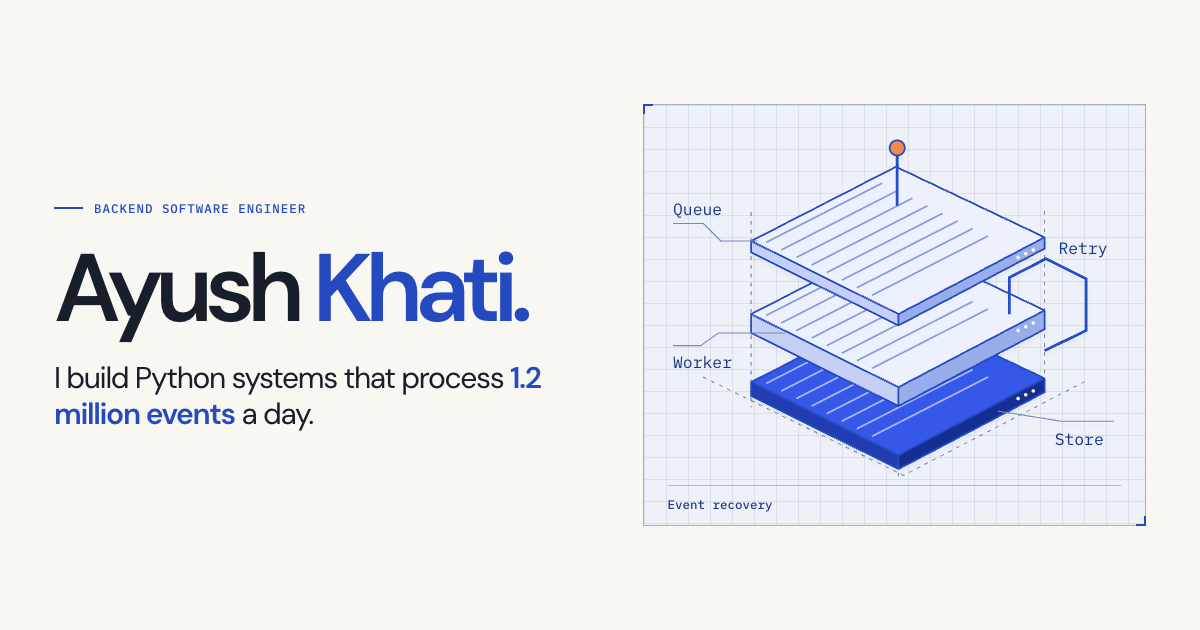
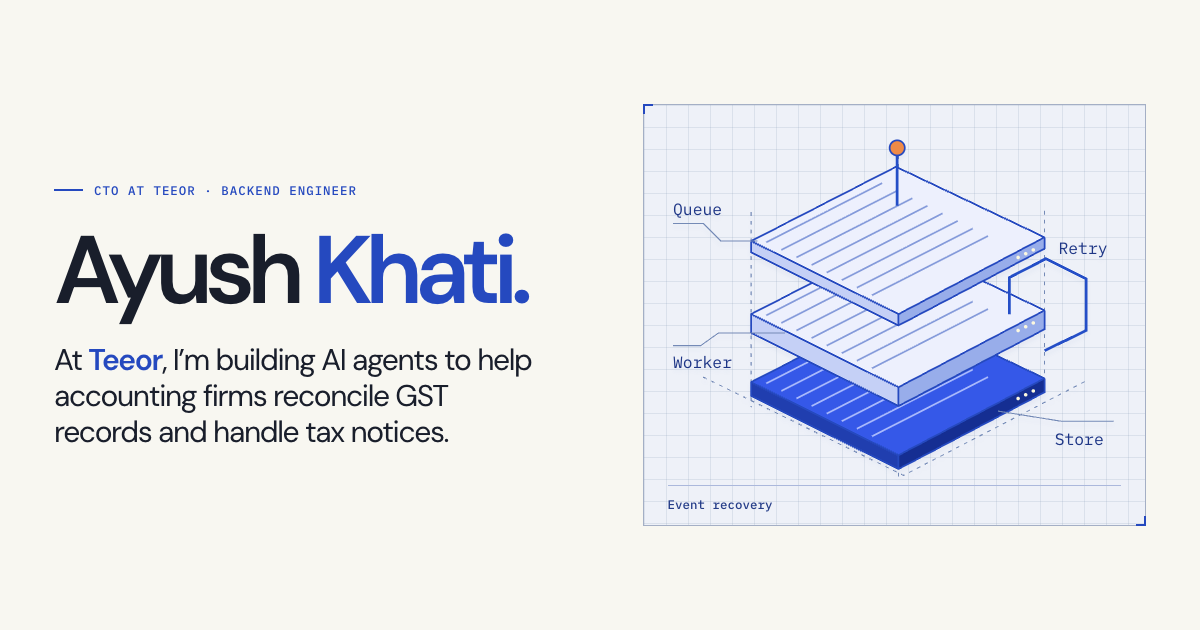
Highlight Ayush’s CTO role at Teeor in the portfolio

Changed region(s): [[0.0308, 0.2714, 0.4625, 0.7238]]

diff --git a/src/components/AboutSection.tsx b/src/components/AboutSection.tsx
@@ -20,7 +20,14 @@ export default function AboutSection() {
         </div></section>
         <section id="experience" className="wrap chapter"><h2>Where I’ve worked<span>.</span></h2>
             <div className="career"><figure><img src={portrait} alt="Ayush Khati" width="605" height="701" loading="lazy"/><figcaption>Ayush Khati · Siliguri, India</figcaption></figure>
-            <ol><li><small>Oct 2025 – present</small><h3>Backend Software Engineer</h3><a href="https://www.udeckservices.com/">Udeck Services</a><p>I own the Evan Merchantile backend, from idempotent ledger writes to observability across 198 endpoints.</p></li>
+            <ol>
+                <li>
+                    <small>Current · Startup leadership</small>
+                    <h3>Chief Technology Officer</h3>
+                    <a href="https://www.teoor.tech/#h-hero">Teeor Technologies</a>
+                    <p>I lead engineering at Teeor. We’re starting with accounting firms in India, building AI agents for GST reconciliation and tax notice workflows.</p>
+                </li>
+                <li><small>Oct 2025 – present</small><h3>Backend Software Engineer</h3><a href="https://www.udeckservices.com/">Udeck Services</a><p>I own the Evan Merchantile backend, from idempotent ledger writes to observability across 198 endpoints. Our pipelines process 1.2 million events a day.</p></li>
                 <li><small>Apr – Oct 2025</small><h3>Backend Engineering Intern</h3><a href="https://www.udeckservices.com/">Udeck Services</a><p>I built B2B checkout and tiered pricing for HamroBazaar and cut request time from 3.96s to 1.15s.</p></li>
                 <li><small>Education</small><h3>Bachelor of Computer Applications</h3><p>Siliguri Institute of Technology · CGPA 8.1/10. Fedora contributor and technical lead for TechFrenzy and NSS.</p></li>
             </ol></div>

diff --git a/index.html b/index.html
@@ -4,17 +4,17 @@
 <head>
     <meta charset="UTF-8" />
     <meta name="viewport" content="width=device-width, initial-scale=1.0" />
-    <title>Ayush Khati | Backend Software Engineer · Engineering Atlas</title>
-    <meta name="description" content="Explore the Python distributed systems Ayush Khati has shipped, from pipelines processing 1.2 million events a day to offline concurrency analysis." />
+    <title>Ayush Khati | CTO at Teeor · Backend Engineer</title>
+    <meta name="description" content="Ayush Khati leads engineering at Teeor, building AI agents for GST reconciliation and tax notices. Explore his backend systems and shipped projects." />
     <meta name="author" content="Ayush Khati" />
 
-    <meta property="og:title" content="Ayush Khati | Backend Software Engineer · Engineering Atlas" />
-    <meta property="og:description" content="An illustrated portfolio of Python event pipelines, real-time streaming, and SQL optimization by Ayush Khati." />
+    <meta property="og:title" content="Ayush Khati | CTO at Teeor · Backend Engineer" />
+    <meta property="og:description" content="Meet Ayush Khati, CTO at Teeor, and explore his work in tax automation, Python distributed systems, and real-time streaming." />
     <meta property="og:type" content="website" />
 
     <meta name="twitter:card" content="summary_large_image" />
     <meta property="og:image" content="https://portfolio-peach-nine-88.vercel.app/atlas-preview.png" />
-    <meta property="og:image:alt" content="Ayush Khati, backend software engineer. Illustrated event recovery pipeline." />
+    <meta property="og:image:alt" content="Ayush Khati, CTO at Teeor and backend engineer. Illustrated event recovery pipeline." />
 </head>
 
 <body>

diff --git a/src/components/HeroSection.tsx b/src/components/HeroSection.tsx
@@ -4,11 +4,11 @@ import AtlasDrawing from "./AtlasDrawing";
 export default function HeroSection() {
     return <section id="hero" className="wrap hero">
         <div className="intro">
-            <p className="eyebrow role"><span/> Backend Software Engineer</p>
+            <p className="eyebrow role"><span/> CTO at Teeor · Backend Engineer</p>
             <h1>Ayush <span>Khati.</span></h1>
-            <p className="lead">I build Python systems that process <strong>1.2 million events</strong> a day.</p>
+            <p className="lead">At <strong>Teeor</strong>, I’m building AI agents to help accounting firms reconcile GST records and handle tax notices.</p>
             <div className="actions"><a className="btn primary" href="#projects">See what I shipped</a><a className="btn" href="/ayush-khati-resume.pdf" download><Download size={16}/> Download résumé</a></div>
-            <p className="location">Udeck Services <b>·</b> Siliguri, India <b>·</b> Open to remote roles</p>
+            <p className="location">Siliguri, India <b>·</b> Open to remote roles</p>
         </div>
         <AtlasDrawing kind="pipeline"/>
     </section>;
